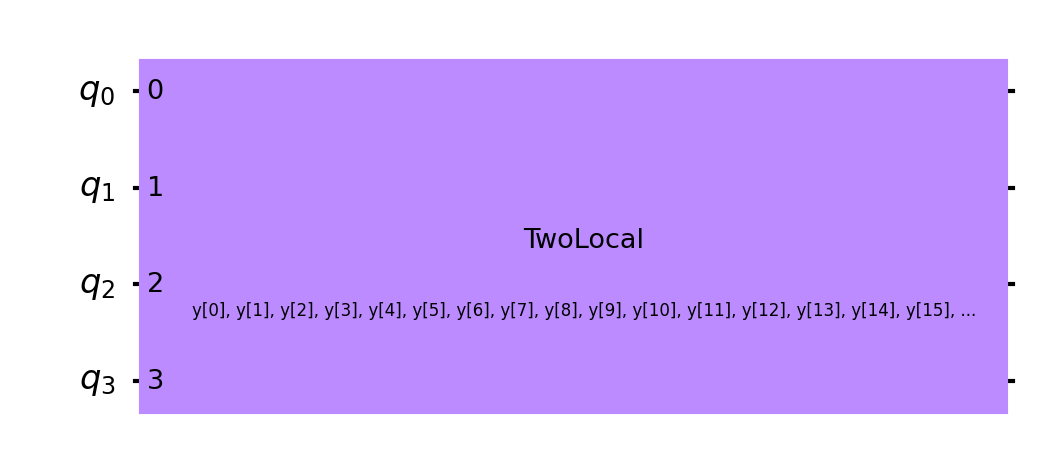
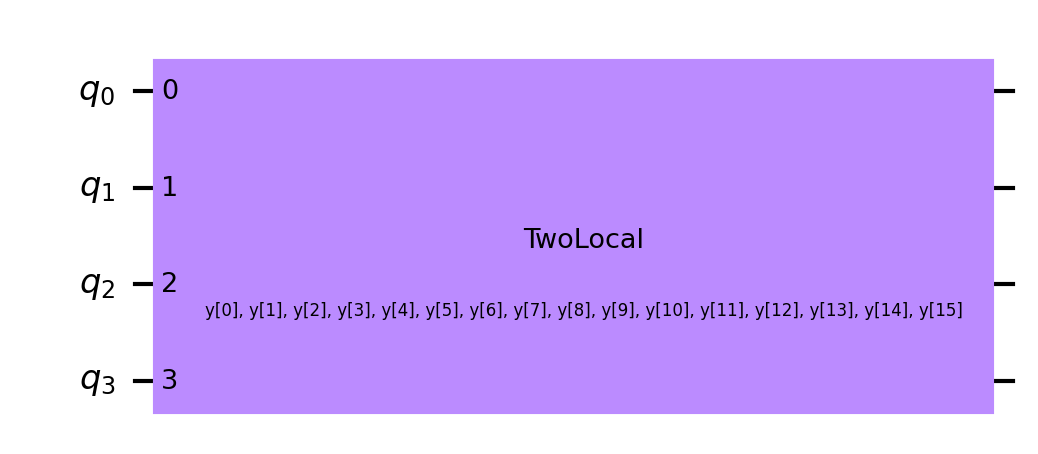
WIP

Changed region(s): [[0.185, 0.6476, 0.9249, 0.7093], [0.1233, 0.1233, 0.185, 0.9251], [0.9557, 0.1233, 0.9865, 0.9251]]

diff --git a/rdmft.py b/rdmft.py
@@ -1,4 +1,5 @@
 import os
+import copy
 try:
     import numpy as np
 except ImportError:
@@ -18,8 +19,13 @@ except ImportError:
 try:
     import qiskit
     from qiskit.circuit.library import TwoLocal
+    #from qiskit.circuit import QuantumCircuit
+    from qiskit import execute
+    from qiskit import QuantumRegister, ClassicalRegister, QuantumCircuit
     from qiskit.algorithms import VQE
     from qiskit.algorithms.optimizers import L_BFGS_B,SPSA
+    from qiskit.opflow.primitive_ops import PauliOp
+    from qiskit.quantum_info import Pauli
 except ImportError:
     print("installing qiskit...")
     os.system("pip3 install qiskit")
@@ -36,7 +42,8 @@ except ImportError:
 
 try:
     import qiskit_nature
-    from qiskit import Aer
+    from qiskit import IBMQ, assemble, transpile,Aer
+    from qiskit import BasicAer
     from qiskit_nature.algorithms import GroundStateEigensolver
     from qiskit_nature.converters.second_quantization import QubitConverter
     from qiskit_nature.drivers import PySCFDriver, UnitsType, Molecule
@@ -45,6 +52,7 @@ try:
     from qiskit_nature.problems.second_quantization.electronic import ElectronicStructureProblem
     from qiskit_nature.converters.second_quantization import QubitConverter
     from qiskit_nature.mappers.second_quantization import JordanWignerMapper, ParityMapper    
+    from qiskit_nature.operators.second_quantization import FermionicOp
     
 except ImportError  as error:
     print("installing qiskit-nature because",error.message)
@@ -72,6 +80,11 @@ def opt_callback(nfunc,par,f,stepsize,accepted):
     print("Opt step:",nfunc,par,f,stepsize,accepted)
 
 
+tsim=True
+L=2
+shots=65536
+
+
 #VQE in qiskit from https://github.com/Qiskit/qiskit-nature/
 np.random.seed(999999)
 
@@ -79,28 +92,27 @@ np.random.seed(999999)
 # package, to compute the one-body and two-body integrals in
 # electronic-orbital basis, necessary to form the Fermionic operator
 
-molecule = Molecule(geometry=[['H', [0., 0., 0.]],['H', [0., 0., 0.735]]],charge=0, multiplicity=1)
-
-driver = PySCFDriver(molecule=molecule,unit=UnitsType.ANGSTROM,basis='sto3g')
-problem = ElectronicStructureProblem(driver)
+#molecule = Molecule(geometry=[['H', [0., 0., 0.]],['H', [0., 0., 0.735]]],charge=0, multiplicity=1)
+#driver = PySCFDriver(molecule=molecule,unit=UnitsType.ANGSTROM,basis='sto3g')
+#problem = ElectronicStructureProblem(driver)
 
 # generate the second-quantized operators
-second_q_ops = problem.second_q_ops()
-print("second_q_ops=",second_q_ops)
+#second_q_ops = problem.second_q_ops()
+#print("second_q_ops=",second_q_ops)
 
-main_op = second_q_ops[0]
+#main_op = second_q_ops[0]
 
-num_particles = (problem.molecule_data_transformed.num_alpha,problem.molecule_data_transformed.num_beta)
-num_spin_orbitals = 2 * problem.molecule_data.num_molecular_orbitals
+#num_particles = (problem.molecule_data_transformed.num_alpha,problem.molecule_data_transformed.num_beta)
+#num_spin_orbitals = 2 * problem.molecule_data.num_molecular_orbitals
 
 #qubit_converter = QubitConverter(mapper=ParityMapper(), two_qubit_reduction=True)
 qubit_converter = QubitConverter(mapper=JordanWignerMapper())
-qubit_op = qubit_converter.convert(main_op,num_particles=num_particles)
-print("qubit_op=",qubit_op)
+#qubit_op = qubit_converter.convert(main_op)
+#print("qubit_op=",qubit_op)
 
 # setup the initial state for the ansatz
 #entangler_map = [(0, 1), (1, 2), (2, 0)]
-ansatz = TwoLocal(4,rotation_blocks = ['rx', 'ry'], entanglement_blocks = 'cz',entanglement='linear', reps=2, parameter_prefix = 'y')
+ansatz = TwoLocal(4,rotation_blocks = ['rx', 'ry'], entanglement_blocks = 'cz',entanglement='linear', reps=1, parameter_prefix = 'y')
 
 print(ansatz)
 
@@ -110,24 +122,156 @@ ansatz.draw(output='mpl',filename="ansatz.png")
 
 # set the backend for the quantum computation
 backend = Aer.get_backend('aer_simulator_statevector')
+#backend = BasicAer.get_backend('qasm_simulator')
+if not tsim:
[1 lines of base64/hex data omitted]
+    provider = IBMQ.load_account()
+    print(provider.backends(n_qubits=5, operational=True))
+    backend = provider.backend.ibmq_quito
 
 #optimizer = L_BFGS_B()
-optimizer = SPSA(maxiter=100,callback=opt_callback)
+#optimizer = SPSA(maxiter=100,callback=opt_callback)
+optimizer = SPSA(maxiter=100)
 print(optimizer.print_options())
 initial_point = np.random.random(ansatz.num_parameters)
 
-# setup and run VQE
-algorithm = VQE(ansatz=ansatz,optimizer=optimizer,quantum_instance=backend,initial_point=initial_point)
+if tsim and False:
+    # setup and run VQE
+    algorithm = VQE(ansatz=ansatz,optimizer=optimizer,quantum_instance=backend,initial_point=initial_point)
+    calc = GroundStateEigensolver(qubit_converter, algorithm)
+    res = calc.solve(problem)
+    print(res)
 
-calc = GroundStateEigensolver(qubit_converter, algorithm)
-res = calc.solve(problem)
+#
+q = QuantumRegister(2*L)
+c = ClassicalRegister(1)
+qc=QuantumCircuit(q,c)
+qc=qc.compose(ansatz)
 
-print(res)
+qc=qc.bind_parameters(initial_point).decompose()
+print(qc)
 
+qubits=[]
+for q in range(2*L):
+    qubits.append(q)
+
+m=FermionicOp("+_0",register_length=2*L) @ FermionicOp("-_2",register_length=2*L)
+m=m+~m
+
+#m=FermionicOp("+_0",register_length=2*L) @ FermionicOp("-_0",register_length=2*L)@FermionicOp("+_1",register_length=2*L) @ FermionicOp("-_1",register_length=2*L)
+
+m_op = qubit_converter.convert(m) #,num_particles=num_particles)
+print(m_op)
+
+ops=[]
+qcs=[]
+mesq=[]
+coeff=[]
+
+#build measuring programs here
+p=m_op.to_pauli_op()
+for op in p:
+    #op=PauliOp(opi.primitive,1.0)
+    if op.to_circuit().depth()>0:
+        coeff.append(op.coeff)
+#        print("op=",op)
+        ops.append(op)
+        #map to only sigma_z
+        q=copy.deepcopy(qc)
+
+        sg=[]
+        for i in range(len(op.primitive)):
+            print(op.primitive[i])
+            if str(op.primitive[i])=='Z':
+                sg.append("Z")            
+            elif str(op.primitive[i])=='X':
+                q.h(i)
+                sg.append("Z")            
+            elif str(op.primitive[i])=='Y':
+                q.sdg(i)
+                q.h(i)
+                sg.append("Z")            
+            else:
+                sg.append("I")            
+#        print(q)
+#        print(sg)
+        
+        #map multiple sigma_z to single sigma_z
+        zs=[i for i,x in enumerate(sg) if x=='Z']
+#        print(zs)
+        mesq.append(zs[0])
+        for i in range(1,len(zs)):
+            q.cx(zs[i],zs[0])
+#        print(q)
+        q.measure(zs[0],0)
+        qcs.append(q)
+
+for i in range(len(qcs)):
+    print("op=",ops[i],", measuring qubit",mesq[i],", coeff=",coeff[i])
+    print(qcs[i])
+
+#measure everything
+qc.save_expectation_value(m_op,[0,1,2,3])
+result=backend.run(qc).result()
+exp = result.data()['expectation_value']
+print("The ideal expectation value is ",exp)
+
+jobs=execute(qcs,backend=backend,shots=shots)
+
+q = QuantumRegister(2*L)
+sz=QuantumCircuit(q)
+sz.z(0)
+qcs[0].save_expectation_value(sz,[0,1,2,3])
+result=backend.run(qcs[0]).result()
+print(result)
+exp = result.data()['expectation_value']
+print("The ideal expectation value is ",exp)
+
+#jobs.submit()
+
+if jobs.done():
+    res=jobs.result().results
+    print(res)
+    a=0
+    for i in range(len(res)):
+        print(ops[i]," --> ",res[i].data.counts)
+        v=-2*res[i].data.counts['0x1']/shots+1
+        a=a+v*coeff[i]
+    print("a=",a)
+
+
+
+exit()
+
+
+#build Hubbard model
+c_ops=[]
+L=4
+for i in range(L):
+    c_site=[]
+    for s in range(2):
+        c_site.append(FermionicOp("-_"+str(2*i+s),register_length=2*L))
+    c_ops.append(c_site)
+
+print(c_ops)
+
+hopping=0 #*FermionicOp("I_0",register_length=2*L)
+for i in range(L-1):
+    for s in range(2):
+        hopping+=~c_ops[i][s] @ c_ops[i+1][s]
+hopping+=~hopping
+print(hopping)
+
+interact=0
+for i in range(L):
+    interact+=~c_ops[i][0] @ c_ops[i][0]@~c_ops[i][1] @ c_ops[i][1]
+print(interact)
 
 #build 1-RDM qubit op
+RDM=0
 
 #build ee-interaction qubit op
+
 
 #read in density matrix
 
